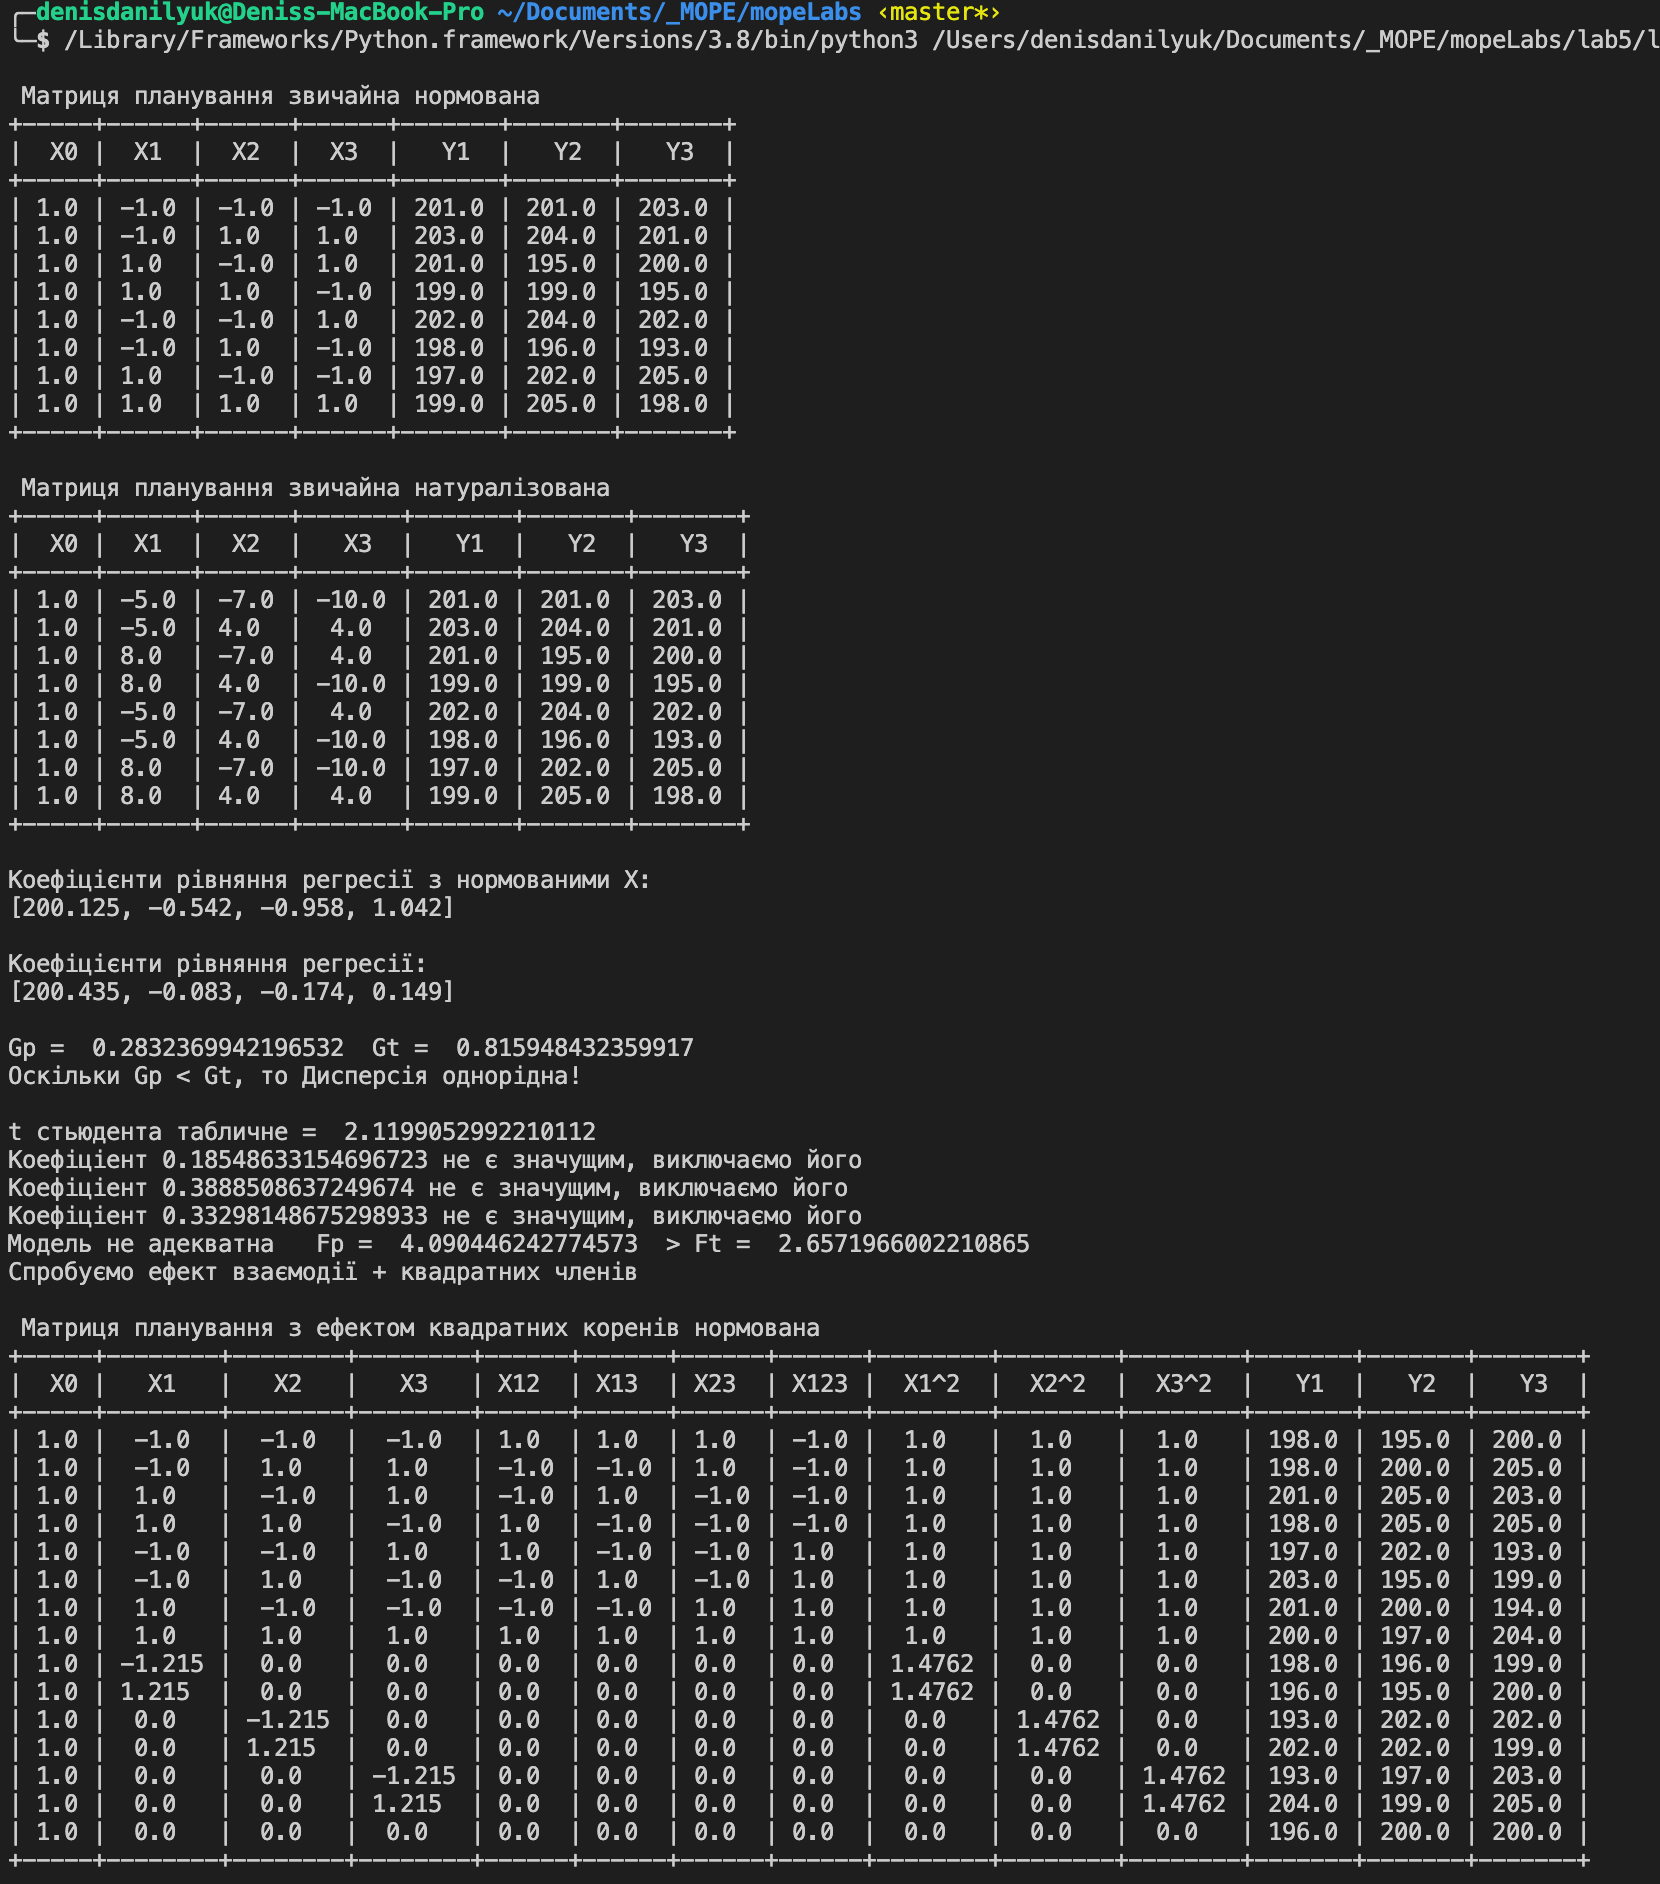
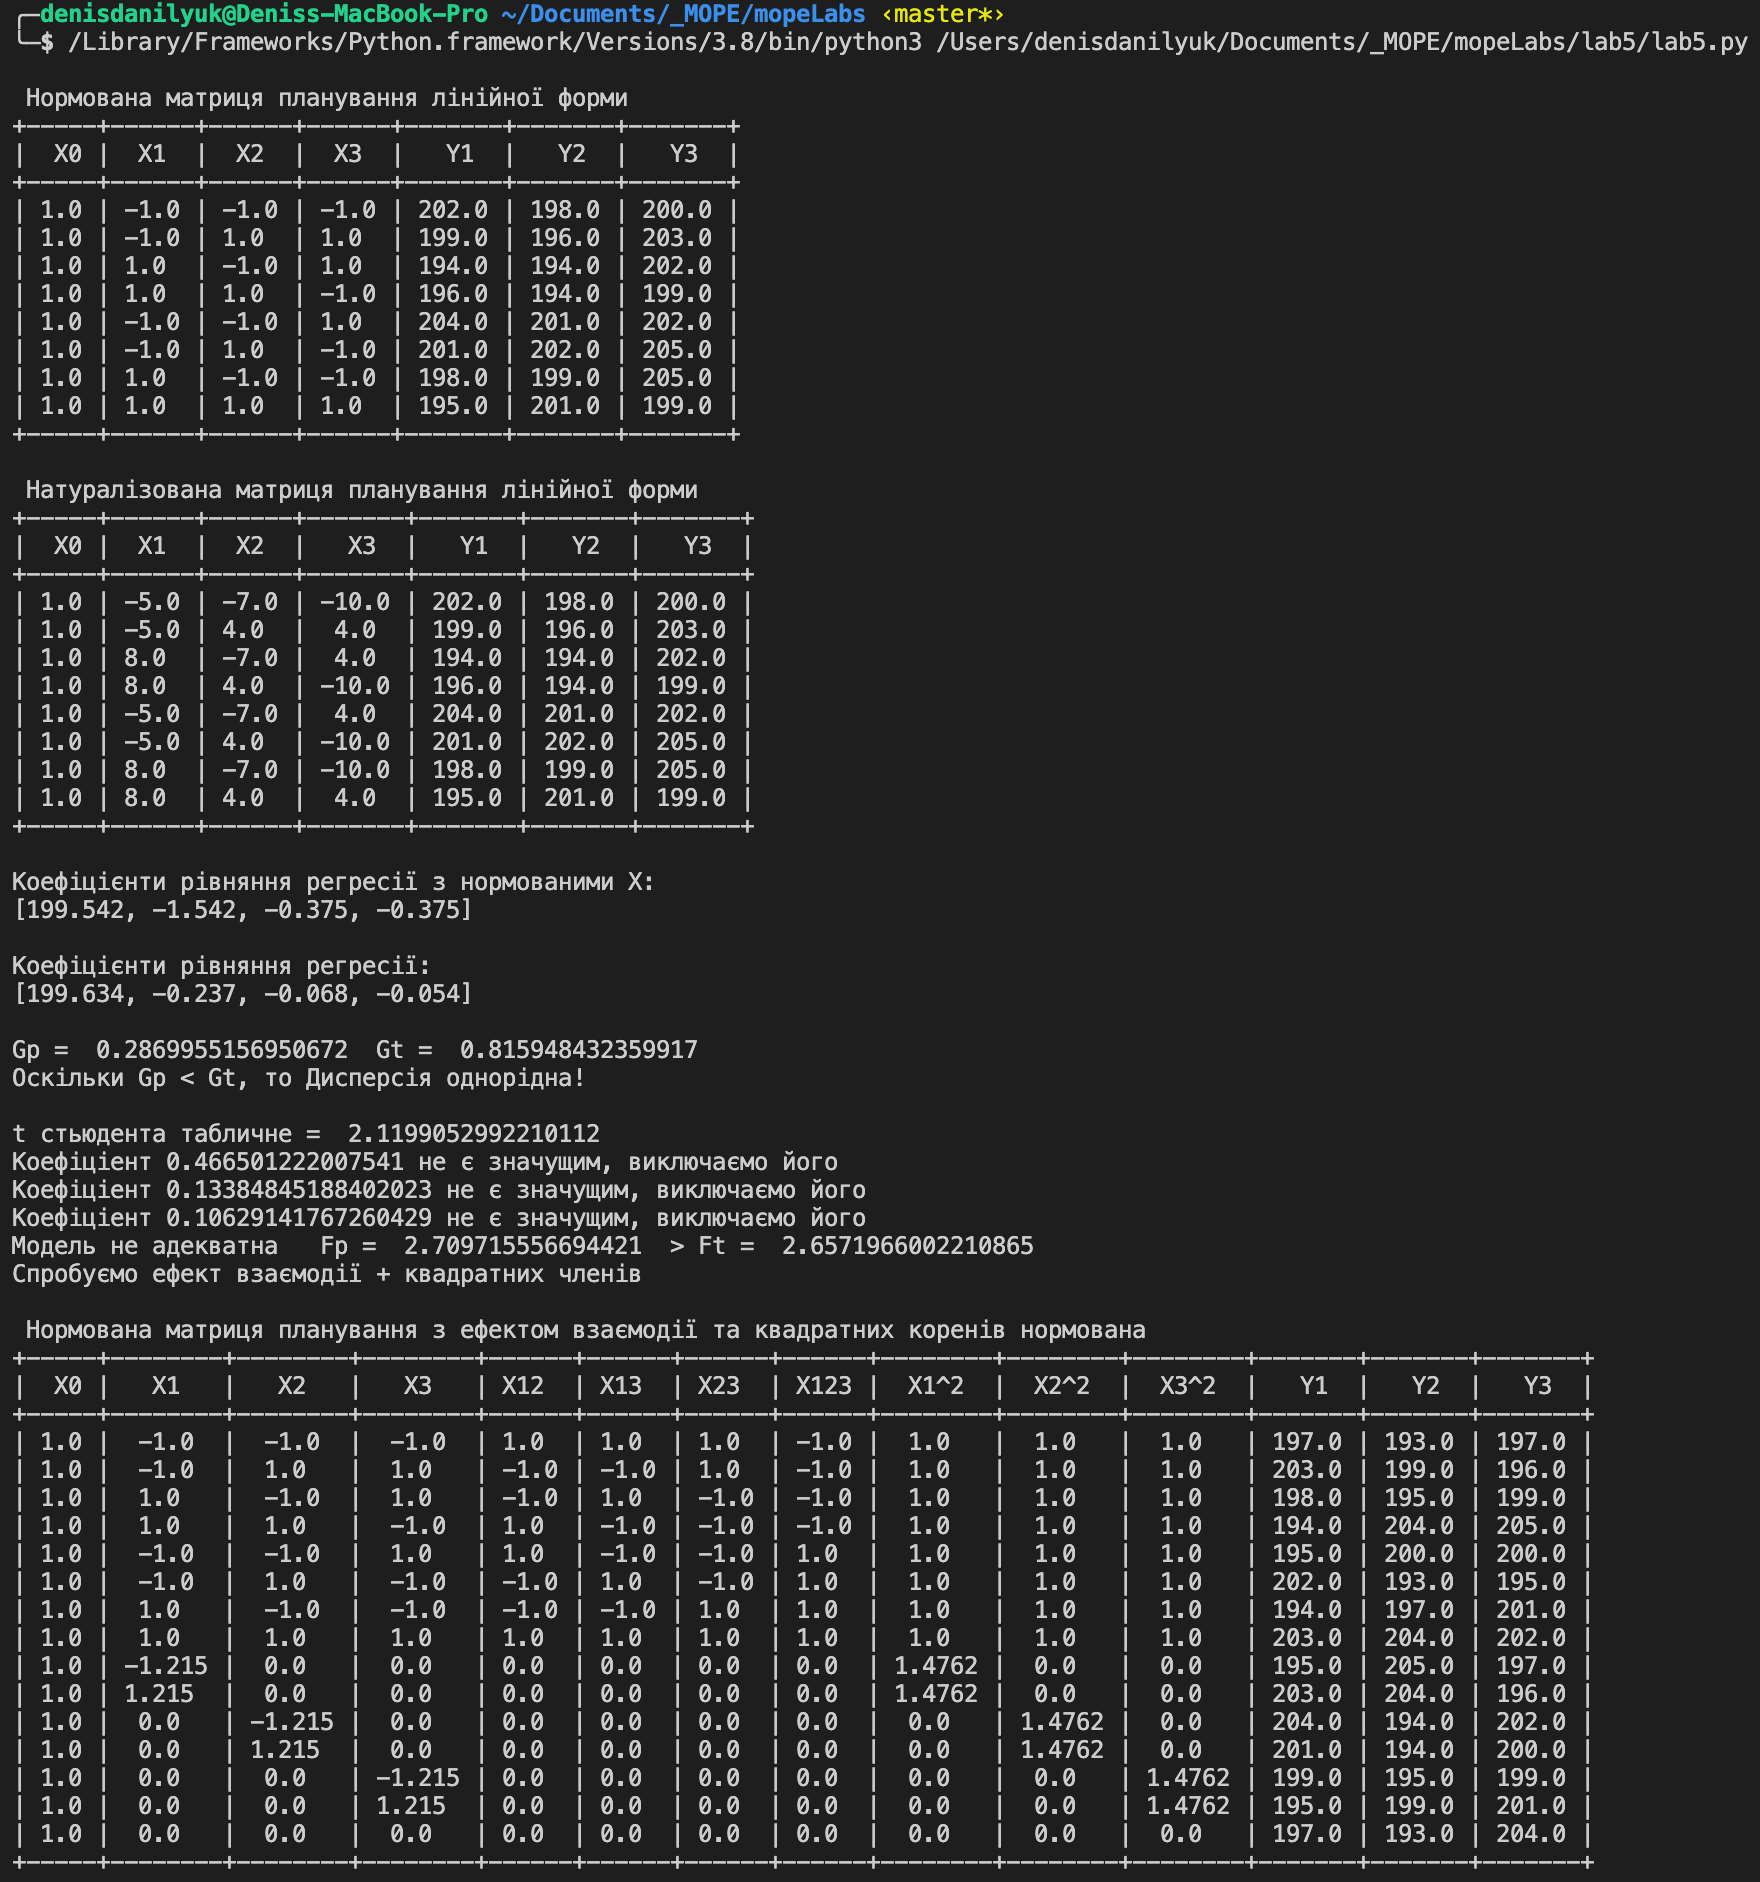
[edit] lab5

Changed region(s): [[0.0, 0.0, 1.0, 1.0]]

diff --git a/lab5/lab5.py b/lab5/lab5.py
@@ -150,18 +150,18 @@ def getMatrix(n, m, typeMatrix = 0):
 
     if typeMatrix == 0:
         fieldNames = ["X0", "X1", "X2", "X3"] + yFieldNames
-        printMatrix("Матриця планування звичайна нормована", np.concatenate((x_norm_standart, y), axis=1), fieldNames)
-        printMatrix("Матриця планування звичайна натуралізована", np.concatenate((x_nat_standart, y), axis=1), fieldNames)
+        printMatrix("Нормована матриця планування лінійної форми", np.concatenate((x_norm_standart, y), axis=1), fieldNames)
+        printMatrix("Натуралізована матриця планування лінійної форми", np.concatenate((x_nat_standart, y), axis=1), fieldNames)
         return x_norm_standart, x_nat_standart, y
     elif typeMatrix == 1:
         fieldNames = ["X0", "X1", "X2", "X3", "X12", "X13", "X23", "X123"] + yFieldNames
-        printMatrix("Матриця планування з ефектом взаємодії нормована", np.concatenate((x_norm_vzaemodia, y), axis=1), fieldNames)
-        printMatrix("Матриця планування з ефектом взаємодії натуралізована", np.concatenate((x_nat_standart, x_nat_vzaemodia, y), axis=1), fieldNames)
+        printMatrix("Нормована матриця планування з ефектом взаємодії нормована", np.concatenate((x_norm_vzaemodia, y), axis=1), fieldNames)
+        printMatrix("Натуралізована матриця планування з ефектом взаємодії натуралізована", np.concatenate((x_nat_standart, x_nat_vzaemodia, y), axis=1), fieldNames)
         return x_norm_vzaemodia, np.concatenate((x_nat_standart, x_nat_vzaemodia), axis=1), y
     else:
         fieldNames = ["X0", "X1", "X2", "X3", "X12", "X13", "X23", "X123", "X1^2", "X2^2", "X3^2"] + yFieldNames
-        printMatrix("Матриця планування з ефектом квадратних коренів нормована", np.concatenate((x_norm_kv, yFull), axis=1), fieldNames)
-        printMatrix("Матриця планування з ефектом квадратних коренів натуралізована", np.concatenate((x_nat_kv_1, x_nat_kv_2, yFull), axis=1), fieldNames)
+        printMatrix("Нормована матриця планування з ефектом взаємодії та квадратних коренів нормована", np.concatenate((x_norm_kv, yFull), axis=1), fieldNames)
+        printMatrix("Натуралізована матриця планування з ефектом взаємодії та квадратних коренів натуралізована", np.concatenate((x_nat_kv_1, x_nat_kv_2, yFull), axis=1), fieldNames)
         return x_norm_kv, np.concatenate((x_nat_kv_1, x_nat_kv_2), axis=1), yFull
 
 
